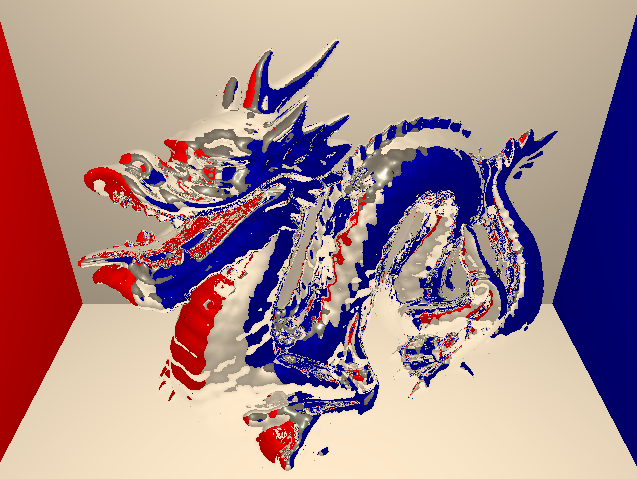
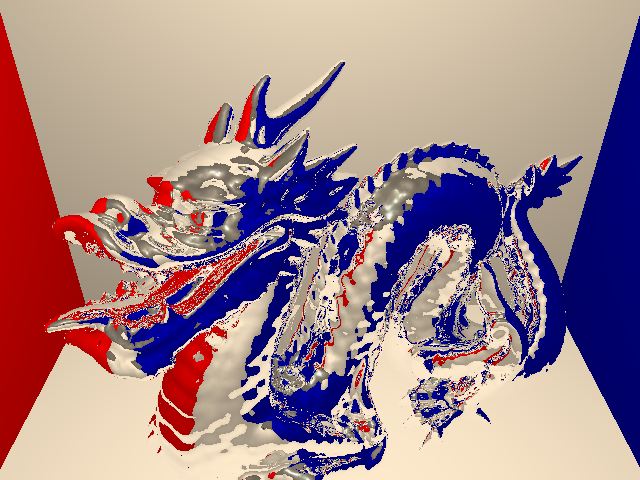
New reflecting dragon images and a hacked cubemap version

diff --git a/thesis/intro.tex b/thesis/intro.tex
@@ -71,31 +71,45 @@ lightsource. Using advanced lighting algorithms such as \textit{photon
 lighting from reflective surfaces, color bleeding and even correct
 caustics can be simulated.
 
-\fixme{reference reflection image.}
-\fixme{Use reflection image from dragon age instead.}
 \begin{figure}
   \centering
-
-  \subfloat[A Whiskey Glass rendered by Zhou et al.\citebook{1409079}
-    using ray tracing and photon mapping. The scene includes shadow,
-    reflection and refraction rays, aswell as caustics from light rays
-    passing through the glass and whiskey, as can be seen on table.]{
-    \includegraphics[height=5cm]{WhiskeyGlass}
-    \label{fig:PhotonGlass}
+  
+  \subfloat[A cubemapped reflecting dragon.]{
+    \includegraphics[width=6cm]{cubemappedDragon}
+    \label{fig:cubeDragon}
   }
 
-  \subfloat[A glass of whiskey from a cutscene in StarCraft 2,
-    rendered with OpenGL. A reasonable approximation to refraction can
-    be seen on the glass sides, but the missing caustics leave the
-    table looking flat. This is especially noticeable when the glass is
-    moved.]{ 
-    \includegraphics[height=5cm]{StarcraftGlass}
-    \label{fig:StarCraftGlass}
+  \subfloat[A ray traced reflecting dragon. Notice the self reflecting
+  on the back and inside the mouth.]{
+    \includegraphics[width=6cm]{semiReflectingDragon}
+    \label{fig:rayReflectingDragon}
   }
-  \caption{Examples of a whiskey glass rendered with OpenGL and Photon
-  Mapping.}
-  \label{fig:caustics}
+  \label{fig:reflectingDragons}
 \end{figure}
+
+%% \begin{figure}
+%%   \centering
+
+%%   \subfloat[A Whiskey Glass rendered by Zhou et al.\citebook{1409079}
+%%     using ray tracing and photon mapping. The scene includes shadow,
+%%     reflection and refraction rays, aswell as caustics from light rays
+%%     passing through the glass and whiskey, as can be seen on table.]{
+%%     \includegraphics[height=5cm]{WhiskeyGlass}
+%%     \label{fig:PhotonGlass}
+%%   }
+
+%%   \subfloat[A glass of whiskey from a cutscene in StarCraft 2,
+%%     rendered with OpenGL. A reasonable approximation to refraction can
+%%     be seen on the glass sides, but the missing caustics leave the
+%%     table looking flat. This is especially noticeable when the glass is
+%%     moved.]{ 
+%%     \includegraphics[height=5cm]{StarcraftGlass}
+%%     \label{fig:StarCraftGlass}
+%%   }
+%%   \caption{Examples of a whiskey glass rendered with OpenGL and Photon
+%%   Mapping.}
+%%   \label{fig:caustics}
+%% \end{figure}
 
 
 Nevertheless, the photorealistic images rendered by ray tracers does
